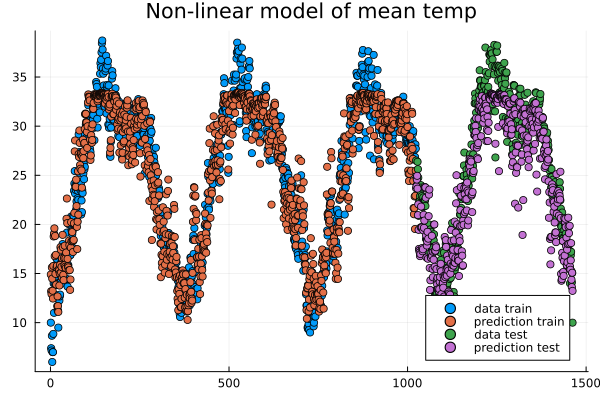
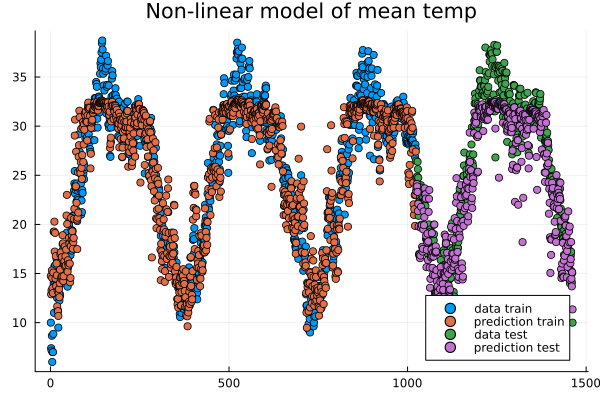
update images

Changed region(s): [[0.06, 0.21, 0.96, 0.84]]

diff --git a/content/regression.rst b/content/regression.rst
@@ -454,7 +454,7 @@ blog post *Forecasting the weather with neural ODEs* found `here
 
 .. code-block:: julia
 
-   using DataFrames, CSV, DataFrames, Plots, Statistics
+   using DataFrames, CSV, Plots, Statistics
 
    # data_path = "C:/Users/davidek/julia_kurser/DailyDelhiClimateTrain.csv"
    # full path to data files
@@ -477,7 +477,7 @@ The mean pressure data field seems to contain some unreasonably large values. Le
 
 .. code-block:: julia
 
-   using DataFrames, CSV, DataFrames, Plots, Statistics
+   using DataFrames, CSV, Plots, Statistics
 
    # data_path = "C:/Users/davidek/julia_kurser/DailyDelhiClimateTrain.csv"
    # full path to data files
@@ -491,6 +491,7 @@ The mean pressure data field seems to contain some unreasonably large values. Le
 
    # remove mean pressures above 1050 hPa and below 950 hPa
    pressure_mod = [ abs(x-1000) < 50 ? x : NaN for x in df_train.meanpressure]
+   # pressure_mod = [ (950 < x) & (x < 1050) ? x : NaN for x in df_train.meanpressure]
 
    Mmod = [df_train.meantemp df_train.humidity df_train.wind_speed pressure_mod]
 
@@ -516,7 +517,7 @@ Now we will consider the problem of predicting one of the climate variables from
 
 .. code-block:: julia
 
-   using DataFrames, CSV, DataFrames, Plots, Statistics, Dates, GLM, Flux, StatsBase
+   using DataFrames, CSV, Plots, Statistics, Dates, GLM, Flux, StatsBase
    using MLJ: shuffle, partition
    using Flux: train!
 
@@ -528,7 +529,11 @@ Now we will consider the problem of predicting one of the climate variables from
 
    topredict = "mean temp"
    y = df.meantemp
-   X = [(df.humidity .- 50) (df.wind_speed .- 5) (df.meanpressure .- 1000)]
+   mhumid = mean(df.humidity)
+   mspeed = mean(df.wind_speed)
+   mpress = mean(df.meanpressure)
+   X = [(df.humidity .- mhumid) (df.wind_speed .- mspeed) (df.meanpressure .- mpress)]
+   # X = [(df.humidity .- 50) (df.wind_speed .- 5) (df.meanpressure .- 1000)]
 
    # can convert data to Float32
    # aviods Warning and faster training
@@ -614,13 +619,13 @@ Now we will consider the problem of predicting one of the climate variables from
 
 .. code-block:: text
 
-   Epoch: 997, rmse train/test: 2.401997981277437 2.933315445135163
-   Epoch: 998, rmse train/test: 2.4018819530994313 2.933265840346145
-   Epoch: 999, rmse train/test: 2.40176617679199 2.9332149025558074
-   Epoch: 1000, rmse train/test: 2.401650646723321 2.9331655702024872
+   Epoch: 997, rmse train/test: 2.5457162727794627 2.976820601944131
+   Epoch: 998, rmse train/test: 2.5455743026361106 2.976745963344427
+   Epoch: 999, rmse train/test: 2.5454323141134845 2.9766709624395236
+   Epoch: 1000, rmse train/test: 2.545290506223516 2.976596231134482
    mean temp
-   rmse train: 2.401650646723321
-   rmse_test: 2.9331655702024872
+   rmse train: 2.545290506223516
+   rmse_test: 2.976596231134482
 
 It is interesting to animate the predictions during the training of the neural network. This will also give us a quick look at animation in Julia.
 
@@ -659,7 +664,7 @@ Let us also check how well a linear model is doing in this case. It turns out it
 
 .. code-block:: julia
 
-   using DataFrames, CSV, DataFrames, Plots, Statistics, Dates, GLM, Flux, StatsBase
+   using DataFrames, CSV, Plots, Statistics, Dates, GLM, Flux, StatsBase
    using MLJ: shuffle, partition
    using Flux: train!
 
